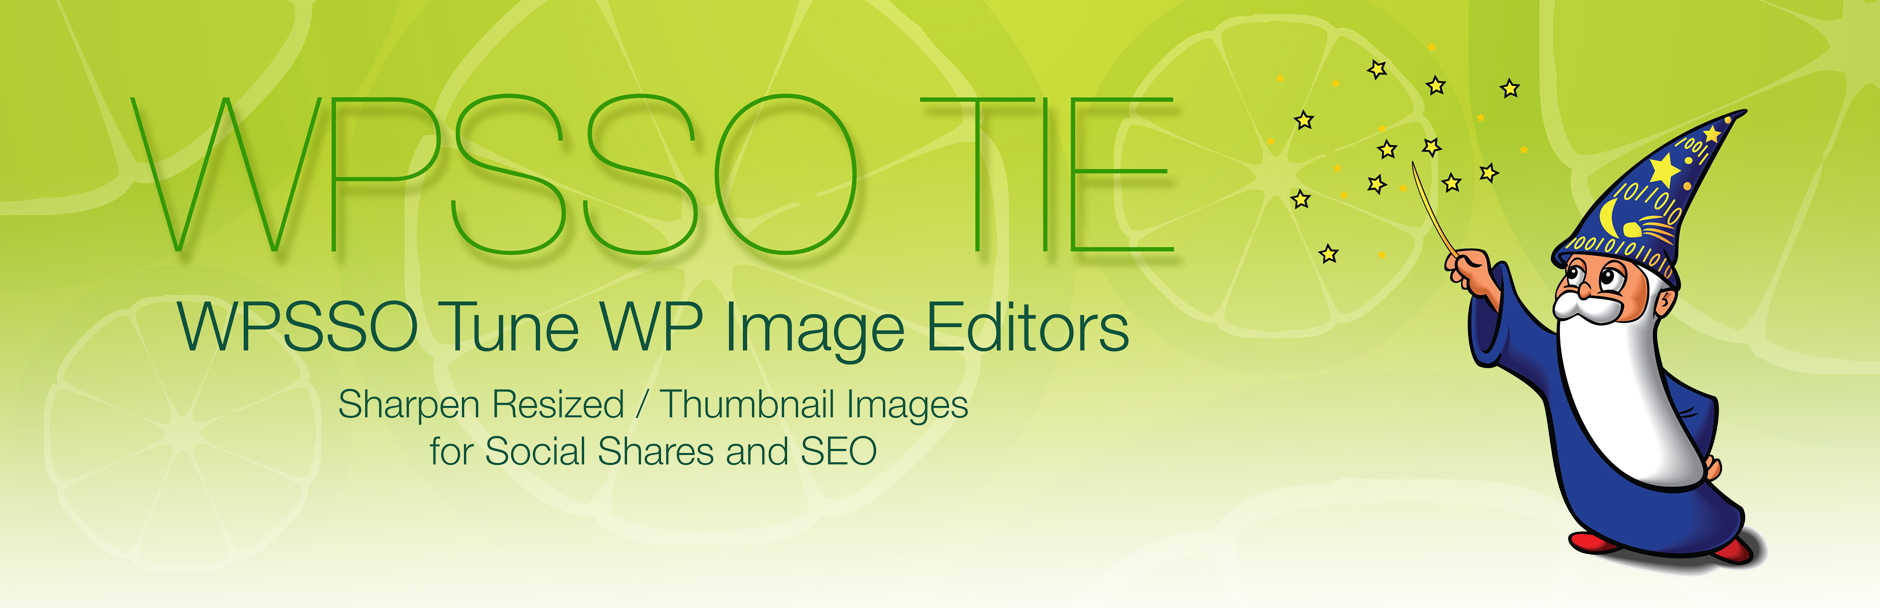
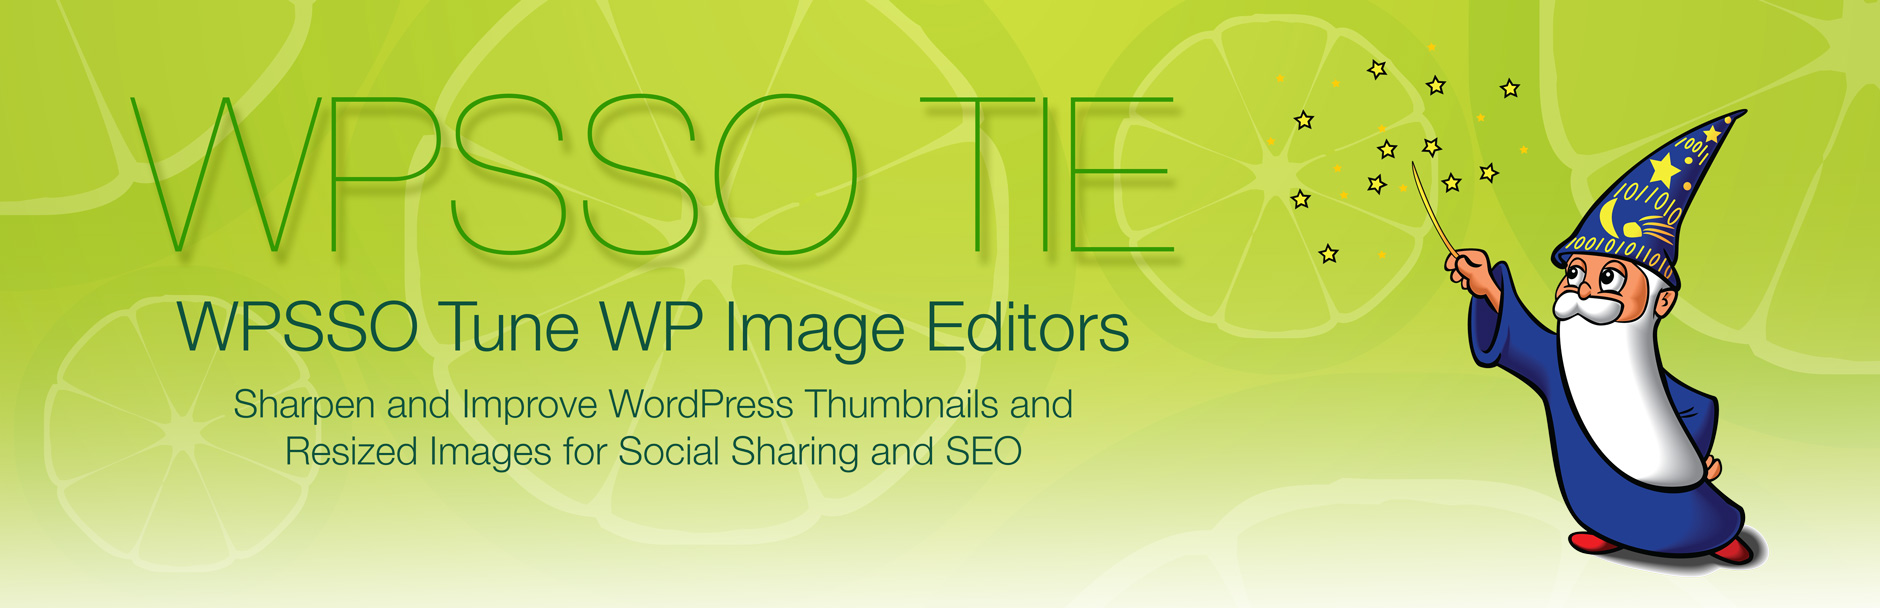
non-essential support files (documentation and assets)

diff --git a/index.html b/index.html
@@ -29,7 +29,7 @@
 
 <table>
 <tr><th align="right" valign="top" nowrap>Plugin Name</th><td>WPSSO Tune WP Image Editors</td></tr>
-<tr><th align="right" valign="top" nowrap>Summary</th><td>WPSSO Core add-on sharpens and improves WordPress thumbnails for social sharing and SEO.</td></tr>
+<tr><th align="right" valign="top" nowrap>Summary</th><td>WPSSO Core add-on to sharpen and improve WordPress thumbnails and resized images for social sharing and SEO.</td></tr>
 <tr><th align="right" valign="top" nowrap>Stable Version</th><td>2.0.0</td></tr>
 <tr><th align="right" valign="top" nowrap>Requires At Least</th><td>WordPress 3.8</td></tr>
 <tr><th align="right" valign="top" nowrap>Tested Up To</th><td>WordPress 5.2.2</td></tr>
